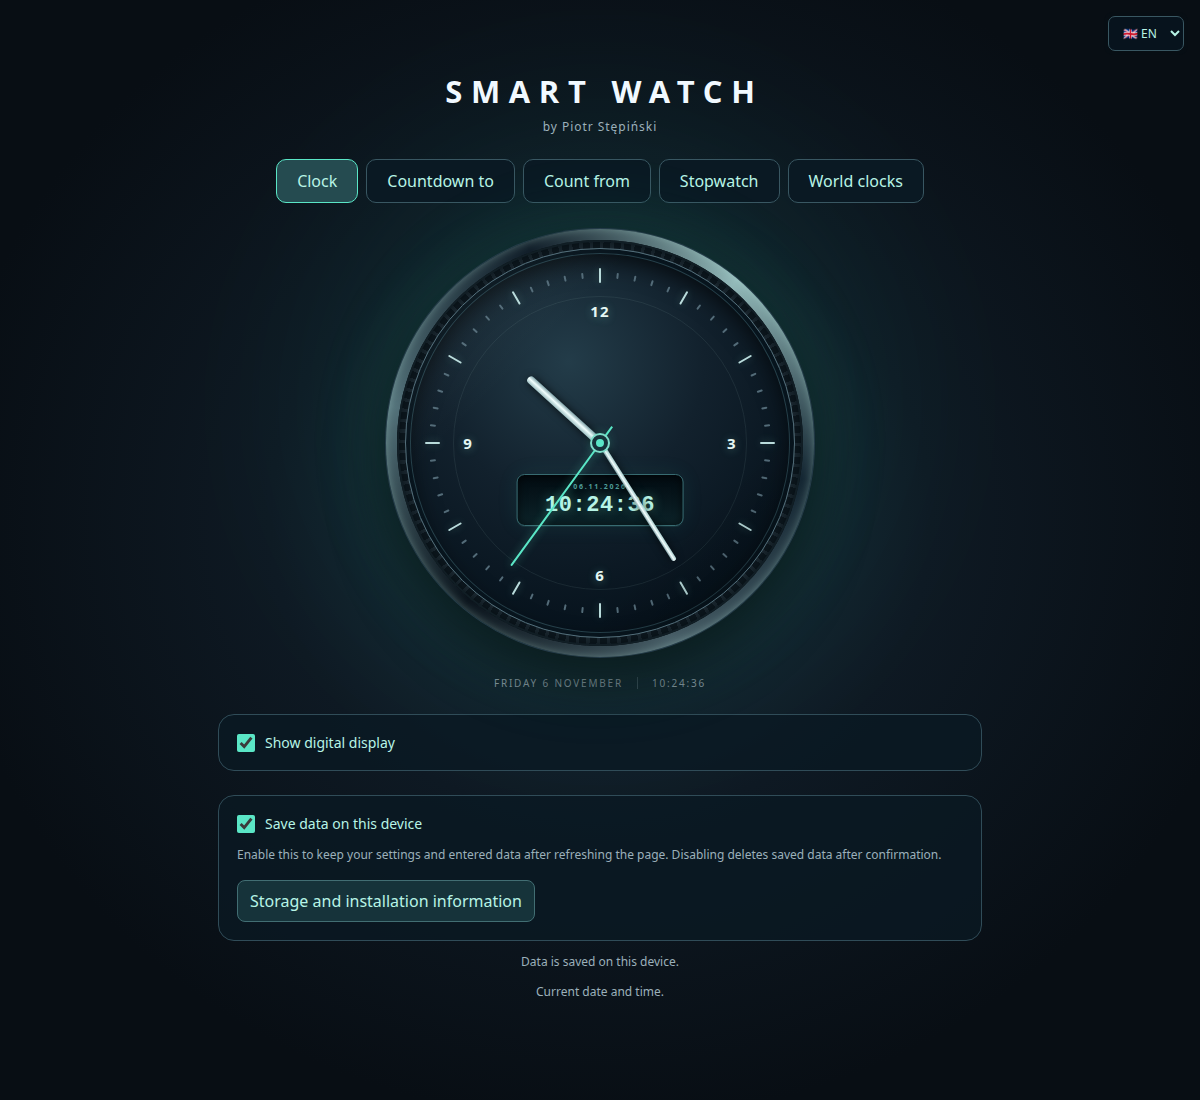
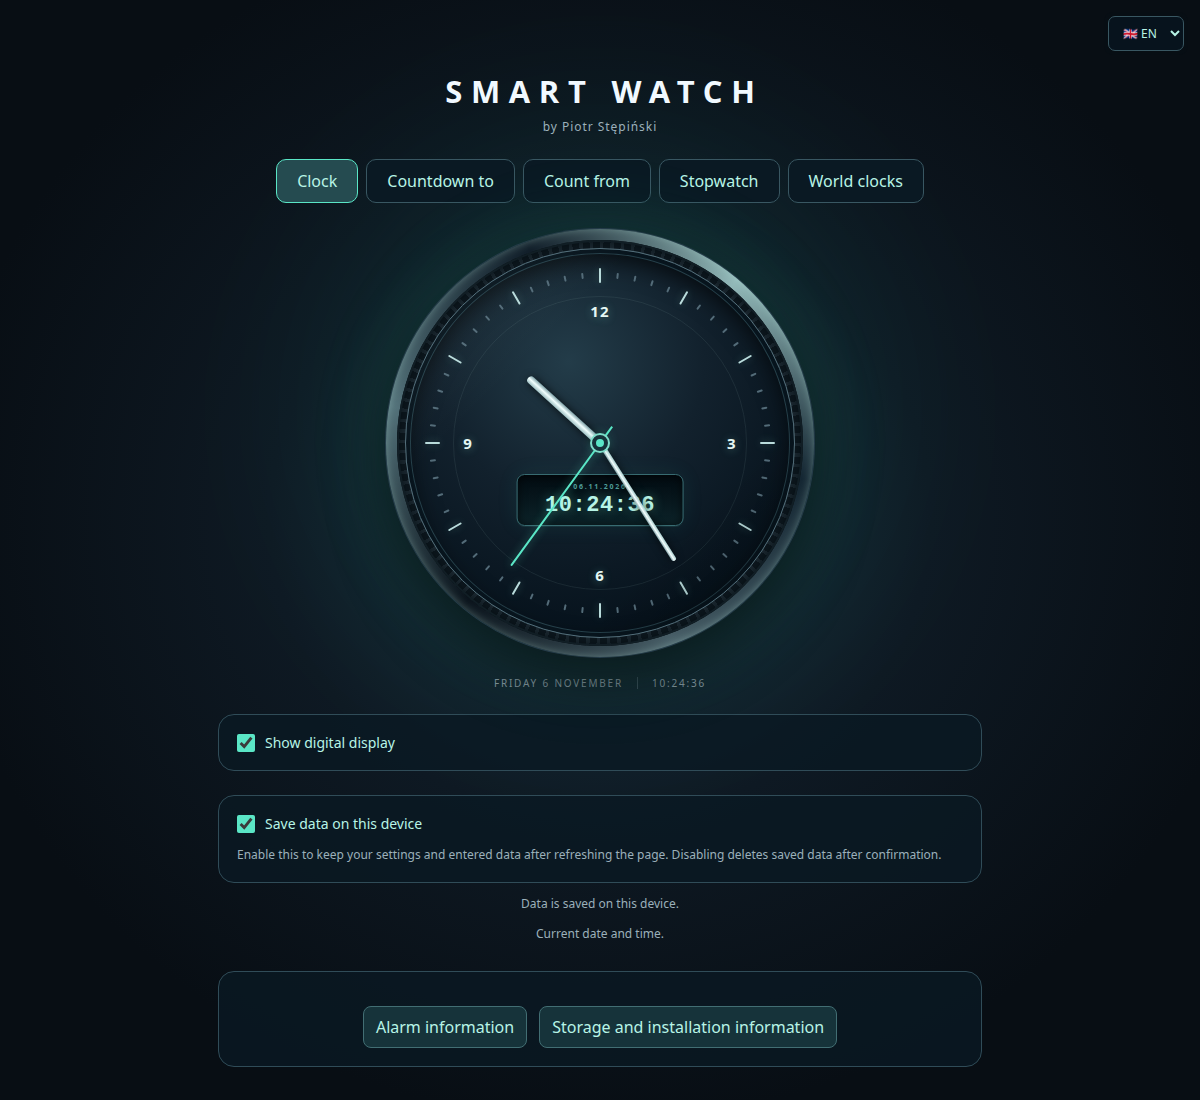
Show alarm information once and move information buttons to footer

Changed region(s): [[0.185, 0.7727, 0.7092, 0.9582]]

diff --git a/src/app/app.component.html b/src/app/app.component.html
@@ -41,6 +41,12 @@
       } @else { <button type="button" (click)="closeStorageInfo()">{{ t('Zamknij') }}</button> }
       </div>
   </dialog>
+  <dialog #alarmInfoDialog class="storage-banner storage-popup" aria-labelledby="alarmInfoTitle" (cancel)="$event.preventDefault()">
+    <div class="storage-popup-header"><h2 id="alarmInfoTitle">{{ t('Informacje o alarmie') }}</h2></div>
+        <strong>{{ t('Alarm działa tylko przy otwartej, aktywnej aplikacji i włączonym ekranie.') }}</strong>
+        <p>{{ t('Nie działa po zablokowaniu telefonu, wygaszeniu ekranu, zamknięciu aplikacji ani w tle. Sprawdź głośność i tryb wyciszenia telefonu. Po odświeżeniu strony ponownie włącz dźwięk przyciskiem „Włącz i przetestuj dźwięk alarmów” w zakładce „Odliczanie do”. Alarm jest jednorazowy; po zmianie terminu włącz go ponownie.') }}</p>
+    <div class="storage-banner-actions"><button type="button" (click)="acknowledgeAlarmInfo()" autofocus>{{ t('Rozumiem') }}</button></div>
+  </dialog>
   @if (alarms.notices().length) {
     <aside class="alarm-notices range-form" role="alert">
       @for (notice of alarms.notices(); track notice.id) {
@@ -117,7 +123,6 @@
   <div class="range-form storage-setting">
     <label class="display-toggle"><input type="checkbox" [checked]="storage.enabled()" [disabled]="storage.busy()" (change)="toggleStorage($event)">{{ t('Zapisuj dane na tym urządzeniu') }}</label>
     <p class="range-help">{{ t('Włącz, aby zachować swoje ustawienia i wprowadzone dane po odświeżeniu strony. Wyłączenie usunie zapis po potwierdzeniu.') }}</p>
-    <button type="button" class="storage-info-button" (click)="openStorageInfo()">{{ t('Informacje o zapisie i instalacji') }}</button>
   </div>
   @if (storageNotice()) { <p class="storage-status" role="status">{{ t(storageNotice()) }}</p> }
   <p class="storage-status" [class.error]="storage.error()" role="status">{{ t(storage.error() || (storage.enabled() ? 'Dane są zapisywane na tym urządzeniu.' : 'Zapis jest wyłączony. Po odświeżeniu strony Twoje ustawienia i wprowadzone dane znikną.')) }}</p>
@@ -130,9 +135,7 @@
   <section id="clockPanel" role="tabpanel" aria-labelledby="clockTab" [hidden]="state.mode !== 'clock'"><p class="range-help">{{ t('Aktualna data i godzina.') }}</p></section>
   <section id="countdownPanel" role="tabpanel" aria-labelledby="countdownTab" [hidden]="state.mode !== 'countdown'">
     <div class="range-form">
-      <div class="alarm-help">
-        <strong>{{ t('Alarm działa tylko przy otwartej, aktywnej aplikacji i włączonym ekranie.') }}</strong>
-        <p>{{ t('Nie działa po zablokowaniu telefonu, wygaszeniu ekranu, zamknięciu aplikacji ani w tle. Sprawdź głośność i tryb wyciszenia telefonu. Po odświeżeniu strony ponownie włącz dźwięk przyciskiem poniżej. Alarm jest jednorazowy; po zmianie terminu włącz go ponownie.') }}</p>
+      <div class="alarm-audio-controls">
         <button type="button" (click)="alarms.testSound()" [disabled]="alarms.preparing()">{{ t('Włącz i przetestuj dźwięk alarmów') }}</button>
         <span class="alarm-audio-status">{{ t(alarms.ready() ? 'Dźwięk jest włączony w tej sesji.' : 'Dźwięk wymaga włączenia w tej sesji.') }}</span>
         @if (alarms.error()) { <p class="range-status error" role="alert">{{ t(alarms.error()) }}</p> }
@@ -213,4 +216,8 @@
   <section id="worldPanel" role="tabpanel" aria-labelledby="worldTab" [hidden]="state.mode !== 'world'">
     @if (state.mode === 'world') { <app-world-clocks /> }
   </section>
+  <footer class="page-information range-form">
+    <button type="button" (click)="openAlarmInfo()">{{ t('Informacje o alarmie') }}</button>
+    <button type="button" class="storage-info-button" (click)="openStorageInfo()">{{ t('Informacje o zapisie i instalacji') }}</button>
+  </footer>
 </main>

diff --git a/tests/e2e/alarm-info.spec.ts b/tests/e2e/alarm-info.spec.ts
@@ -1,0 +1,41 @@
+import { test, expect } from '@playwright/test';
+import type { Page } from '@playwright/test';
+
+const popup = (page: Page) => page.getByRole('dialog', { name: 'Informacje o alarmie', exact: true });
+const countdown = (page: Page) => page.getByRole('tab', { name: 'Odliczanie do', exact: true }).click();
+const acknowledge = (page: Page) => popup(page).getByRole('button', { name: 'Rozumiem', exact: true }).click();
+
+test('potwierdzenie jest zapamiętane za zgodą, oba przyciski informacji są na dole i pozwalają otworzyć popupy', async ({ page }) => {
+  await page.goto('/');
+  await page.getByRole('button', { name: 'Zgadzam się na zapis', exact: true }).click();
+  await countdown(page);
+  await expect(popup(page)).toContainText('Nie działa po zablokowaniu telefonu');
+  await page.keyboard.press('Escape');
+  await expect(popup(page)).toBeVisible();
+  await acknowledge(page);
+  await page.reload();
+  await expect(page.getByRole('tab', { name: 'Odliczanie do', exact: true })).toHaveAttribute('aria-selected', 'true');
+  await expect(popup(page)).not.toBeVisible();
+  const footer = page.locator('footer.page-information');
+  await footer.getByRole('button', { name: 'Informacje o alarmie', exact: true }).click();
+  await expect(popup(page)).toBeVisible();
+  await acknowledge(page);
+  await footer.getByRole('button', { name: 'Informacje o zapisie i instalacji', exact: true }).click();
+  await expect(page.getByRole('dialog', { name: 'Zapis danych na urządzeniu', exact: true })).toBeVisible();
+  expect(await page.locator('main').evaluate(main => main.lastElementChild?.tagName)).toBe('FOOTER');
+});
+
+test('bez zapisu potwierdzenie działa w sesji, ale znika po odświeżeniu', async ({ page }) => {
+  await page.goto('/');
+  await page.getByRole('button', { name: 'Kontynuuj bez zapisu', exact: true }).click();
+  await countdown(page);
+  await acknowledge(page);
+  await page.getByRole('tab', { name: 'Zegarek', exact: true }).click();
+  await countdown(page);
+  await expect(popup(page)).not.toBeVisible();
+  expect(await page.evaluate(() => localStorage.getItem('horizon.state.v1'))).toBeNull();
+  await page.reload();
+  await page.getByRole('button', { name: 'Kontynuuj bez zapisu', exact: true }).click();
+  await countdown(page);
+  await expect(popup(page)).toBeVisible();
+});

diff --git a/src/app/app.component.ts b/src/app/app.component.ts
@@ -40,6 +40,7 @@ export class AppComponent implements OnDestroy {
   readonly updateReady = signal(false);
   readonly storageNotice = signal('');
   readonly storageDialog = viewChild.required<ElementRef<HTMLDialogElement>>('storageDialog');
+  readonly alarmInfoDialog = viewChild.required<ElementRef<HTMLDialogElement>>('alarmInfoDialog');
   private readonly saveOnLeave = () => this.storage.save();
   private readonly visibilityChanged = () => { if (document.hidden) { this.alarms.stopSound(); this.storage.save(); } else this.now.set(Date.now()); };
   private readonly beforeInstall = (event: Event) => { event.preventDefault(); this.installPrompt.set(event as InstallEvent); };
@@ -124,6 +125,13 @@ export class AppComponent implements OnDestroy {
         if (!dialog.open) dialog.showModal();
       } else if (dialog.open) dialog.close();
     });
+    afterRenderEffect(() => {
+      this.revision();
+      if (this.state.mode === 'countdown' && !this.state.alarmInfoAcknowledged && !this.storage.showBanner()) {
+        const dialog = this.alarmInfoDialog().nativeElement;
+        if (!dialog.open && !this.storageDialog().nativeElement.open) dialog.showModal();
+      }
+    });
     window.addEventListener('pagehide', this.saveOnLeave);
     document.addEventListener('visibilitychange', this.visibilityChanged);
     window.addEventListener('beforeinstallprompt', this.beforeInstall);
@@ -141,6 +149,15 @@ export class AppComponent implements OnDestroy {
     this.storage.save();
     this.revision.update(value => value + 1);
     this.now.set(Date.now());
+  }
+  openAlarmInfo(): void {
+    const dialog = this.alarmInfoDialog().nativeElement;
+    if (!dialog.open) dialog.showModal();
+  }
+  acknowledgeAlarmInfo(): void {
+    this.state.alarmInfoAcknowledged = true;
+    this.alarmInfoDialog().nativeElement.close();
+    this.changed();
   }
   openStorageInfo(): void {
     const dialog = this.storageDialog().nativeElement;

diff --git a/src/app/translations.ts b/src/app/translations.ts
@@ -3,8 +3,10 @@ export type Language = 'pl' | 'en';
 const english: Record<string, string> = {
   "Alarm": "Alarm",
   "Alarm: ": "Alarm: ",
+  "Informacje o alarmie": "Alarm information",
+  "Rozumiem": "I understand",
   "Alarm działa tylko przy otwartej, aktywnej aplikacji i włączonym ekranie.": "The alarm only works while the app is open and active, with the screen on.",
-  "Nie działa po zablokowaniu telefonu, wygaszeniu ekranu, zamknięciu aplikacji ani w tle. Sprawdź głośność i tryb wyciszenia telefonu. Po odświeżeniu strony ponownie włącz dźwięk przyciskiem poniżej. Alarm jest jednorazowy; po zmianie terminu włącz go ponownie.": "It does not work when your phone is locked, the screen is off, the app is closed or running in the background. Check your phone's volume and silent mode. After refreshing, enable sound again using the button below. Alarms are one-time; re-enable after changing the end time.",
+  "Nie działa po zablokowaniu telefonu, wygaszeniu ekranu, zamknięciu aplikacji ani w tle. Sprawdź głośność i tryb wyciszenia telefonu. Po odświeżeniu strony ponownie włącz dźwięk przyciskiem „Włącz i przetestuj dźwięk alarmów” w zakładce „Odliczanie do”. Alarm jest jednorazowy; po zmianie terminu włącz go ponownie.": "It does not work when your phone is locked, the screen is off, the app is closed or running in the background. Check your phone's volume and silent mode. After refreshing, enable sound again using “Enable and test alarm sound” in the “Countdown to” tab. Alarms are one-time; re-enable after changing the end time.",
   "Włącz i przetestuj dźwięk alarmów": "Enable and test alarm sound",
   "Dźwięk jest włączony w tej sesji.": "Sound is enabled for this session.",
   "Dźwięk wymaga włączenia w tej sesji.": "Sound must be enabled for this session.",

diff --git a/tests/e2e/alarms.spec.ts b/tests/e2e/alarms.spec.ts
@@ -13,6 +13,8 @@ test.beforeEach(async ({ page }) => {
   await page.clock.setFixedTime(new Date('2026-01-01T11:59:58+01:00'));
   await page.goto('/');
   await page.getByRole('tab', { name: 'Odliczanie do', exact: true }).click();
+  await expect(page.getByText('Alarm działa tylko przy otwartej, aktywnej aplikacji i włączonym ekranie.', { exact: true })).toBeVisible();
+  await page.getByRole('button', { name: 'Rozumiem', exact: true }).click();
   await page.getByLabel('Godzina końca: Pasek 1', { exact: true }).fill('12:00');
 });
 const alarm = (page: Page) => page.getByRole('checkbox', { name: 'Alarm: Pasek 1', exact: true });
@@ -23,7 +25,7 @@ async function beforeDeadline(page: Page) {
 }
 
 test('alarm jednorazowy gra przy aktywnej aplikacji i pokazuje jasną informację o ograniczeniach', async ({ page }) => {
-  await expect(page.getByText('Alarm działa tylko przy otwartej, aktywnej aplikacji i włączonym ekranie.', { exact: true })).toBeVisible();
+  await expect(page.getByRole('dialog', { name: 'Informacje o alarmie', exact: true })).not.toBeVisible();
   await alarm(page).check();
   await expect(page.getByText('Dźwięk jest włączony w tej sesji.', { exact: true })).toBeVisible();
   await beforeDeadline(page);
@@ -47,7 +49,7 @@ test('zmiana terminu anuluje alarm i nie pozwala ustawić go dla minionego celu'
   await page.getByLabel('Godzina końca: Pasek 1', { exact: true }).fill('10:00');
   await alarm(page).click();
   await expect(alarm(page)).not.toBeChecked();
-  await expect(page.locator('.alarm-help')).toContainText('prawidłowy termin końca w przyszłości');
+  await expect(page.locator('.alarm-audio-controls')).toContainText('prawidłowy termin końca w przyszłości');
 });
 
 test('w tle nie odtwarza dźwięku i po powrocie informuje o miniętym terminie', async ({ page }) => {

diff --git a/tests/e2e/privacy.spec.ts b/tests/e2e/privacy.spec.ts
@@ -8,6 +8,13 @@ const checkbox = (page: Page) => page.getByRole('checkbox', { name: 'Zapisuj dan
 const banner = (page: Page) => page.getByRole('dialog', { name: 'Zapis danych na urządzeniu', exact: true });
 const read = (page: Page) => page.evaluate(({ stateKey, consentKey }) => ({ state: localStorage.getItem(stateKey), consent: localStorage.getItem(consentKey) }), { stateKey, consentKey });
 
+// Feature tests acknowledge the alarm introduction; its lifecycle is tested separately.
+test.beforeEach(async ({ page }) => {
+  await page.addLocatorHandler(page.getByRole('dialog', { name: 'Informacje o alarmie', exact: true }), async () => {
+    await page.getByRole('button', { name: 'Rozumiem', exact: true }).click();
+  });
+});
+
 test('bez zgody nie zapisuje stanu, języka ani nie rejestruje PWA, odmowa działa w sesji', async ({ page }) => {
   await page.goto('/');
   await expect(banner(page)).toBeVisible();
@@ -150,7 +157,7 @@ test('nieudany zapis danych cofa flagę zgody i zachowuje poprzedni zapis', asyn
 test('popup można odczytać ponownie bez zmiany zgody, zawiera instrukcje Android i iOS', async ({ page }) => {
   await page.goto('/');
   await expect(banner(page)).toBeVisible();
-  await expect(page.locator('dialog')).toHaveJSProperty('open', true);
+  await expect(banner(page)).toHaveJSProperty('open', true);
   await banner(page).getByText('Jak zapisać aplikację na telefonie?', { exact: true }).click();
   await expect(banner(page).getByRole('heading', { name: 'Android · Chrome', exact: true })).toBeVisible();
   await expect(banner(page).getByRole('heading', { name: 'iPhone / iPad · Safari', exact: true })).toBeVisible();

diff --git a/tests/e2e/app.spec.ts b/tests/e2e/app.spec.ts
@@ -2,6 +2,13 @@ import { test, expect, chromium } from '@playwright/test';
 import type { Page } from '@playwright/test';
 
 // These feature tests exercise the explicit opt-in state; first-visit behaviour is covered in privacy.spec.ts.
+// Feature tests acknowledge the alarm introduction; its lifecycle is tested separately.
+test.beforeEach(async ({ page }) => {
+  await page.addLocatorHandler(page.getByRole('dialog', { name: 'Informacje o alarmie', exact: true }), async () => {
+    await page.getByRole('button', { name: 'Rozumiem', exact: true }).click();
+  });
+});
+
 test.beforeEach(async ({ page }) => {
   await page.addInitScript(() => {
     if (!sessionStorage.getItem('horizon.testConsentSeeded')) {
@@ -377,6 +384,8 @@ test.describe('karuzela odliczania na telefonie', () => {
   test('przesuwa zegarek gestem do tabeli i pozwala wrócić przyciskiem', async ({ page, context }) => {
     await page.goto('/');
     await page.getByRole('tab', { name: 'Odliczanie do', exact: true }).click();
+    await page.removeLocatorHandler(page.getByRole('dialog', { name: 'Informacje o alarmie', exact: true }));
+    await page.getByRole('button', { name: 'Rozumiem', exact: true }).click();
     const carousel = page.locator('.countdown-overview');
     const bounds = (await carousel.boundingBox())!;
     const y = Math.min(bounds.y + 150, 700);

diff --git a/src/app/persistence.ts b/src/app/persistence.ts
@@ -18,6 +18,7 @@ export function isAppState(value: unknown): value is AppState {
   if (value['language'] !== 'pl' && value['language'] !== 'en') return false;
   if (!['clock', 'countdown', 'stopwatch', 'timer', 'world'].includes(String(value['mode'])) || typeof value['showDigital'] !== 'boolean') return false;
   if (!['all', 'single'].includes(String(value['countdownMode'])) || !selection(value['countdownUnits'])) return false;
+  if (value['alarmInfoAcknowledged'] !== undefined && typeof value['alarmInfoAcknowledged'] !== 'boolean') return false;
   const world = value['worldClocks'];
   if (!Array.isArray(world) || !world.every(item => record(item) && natural(item['id']) && strings(item, ['name', 'timeZone']) &&
     typeof item['visible'] === 'boolean' && validTimeZone(item['timeZone'] as string)) || !uniqueIds(world)) return false;

diff --git a/src/styles.css b/src/styles.css
@@ -194,8 +194,7 @@ app-root, .stage, .range-form { min-width: 0; }
   .storage-popup-header { gap: 8px; }
   .storage-popup-header h2 { font-size: 16px; }
 }
-.alarm-help { padding: 14px; margin-bottom: 18px; border: 1px solid #927344; border-radius: 10px; color: #f4dfb2; font-size: 13px; line-height: 1.6; }
-.alarm-help p { margin: 8px 0; }
-.alarm-help .range-status { margin-top: 10px; }
+.alarm-audio-controls { margin-bottom: 18px; }
+.page-information { display: flex; flex-wrap: wrap; justify-content: center; gap: 12px; margin-top: 28px; }
 .alarm-audio-status { display: block; margin-top: 8px; color: #9bb0ba; font-size: 12px; }
 .alarm-notices { border-color: #f4df77; }

diff --git a/scripts/screenshots.ts b/scripts/screenshots.ts
@@ -12,6 +12,7 @@ const directory = fileURLToPath(new URL('../docs/screenshots/', import.meta.url)
 await mkdir(directory, { recursive: true });
 const demoTime = new Date('2026-11-06T10:24:36+01:00');
 const demo = createState(demoTime, 'en');
+demo.alarmInfoAcknowledged = true;
 demo.processes = [
   { id: 1, name: 'Working day', color: '#5ae6c6', visible: true, startDate: '', startTime: '08:00', endDate: '', endTime: '16:00' },
   { id: 2, name: 'Design review', color: '#65baff', visible: true, startDate: '', startTime: '10:00', endDate: '', endTime: '12:30' },

diff --git a/src/app/models.ts b/src/app/models.ts
@@ -45,6 +45,7 @@ export interface AppState {
   language: 'pl' | 'en';
   mode: Mode;
   showDigital: boolean;
+  alarmInfoAcknowledged?: boolean;
   countdownMode: 'all' | 'single';
   countdownUnits: UnitSelection;
   processes: Process[];

diff --git a/README.md b/README.md
@@ -162,7 +162,7 @@ Widoczność sekund, minut, godzin, dni, tygodni, miesięcy i lat ustala się pr
 
 Każdy proces ma opcję **Alarm**. Włączenie ustawia jednorazowy alarm na wyliczoną datę i godzinę końca, również gdy wpisano tylko godzinę celu. Cel musi być prawidłowy i przyszły. Ukrycie procesu na tarczy nie wyłącza jego alarmu.
 
-**Alarm działa tylko przy otwartej, aktywnej aplikacji i włączonym ekranie. Nie działa po zablokowaniu telefonu, wygaszeniu ekranu, zamknięciu aplikacji ani w tle — także w zainstalowanej PWA.** Ta informacja jest widoczna obok ustawień alarmu w PL i EN. Nie jest to natywny budzik ani powiadomienie push.
+**Alarm działa tylko przy otwartej, aktywnej aplikacji i włączonym ekranie. Nie działa po zablokowaniu telefonu, wygaszeniu ekranu, zamknięciu aplikacji ani w tle — także w zainstalowanej PWA.** Ta informacja pojawia się w popupie przy pierwszym otwarciu zakładki „Odliczanie do”, w PL i EN. Przycisk „Rozumiem” zamyka popup; przy włączonym zapisie danych wybór jest pamiętany również po odświeżeniu. Bez zapisu jest pamiętany tylko do odświeżenia lub zamknięcia strony. Przycisk „Informacje o alarmie” na dole strony pozwala ponownie przeczytać komunikat. Obok znajduje się przycisk informacji o zapisie danych i instalacji. Nie jest to natywny budzik ani powiadomienie push.
 
 - Włączenie alarmu aktywuje dźwięk w bieżącej sesji. Przycisk **Enable and test alarm sound** pozwala sprawdzić, czy dźwięk jest słyszalny; trzeba uwzględnić głośność i wyciszenie telefonu.
 - Po odświeżeniu lub ponownym otwarciu strony ponownie użyj przycisku aktywacji dźwięku. Przeglądarka wymaga interakcji użytkownika; zapamiętany termin sam nie odblokowuje audio.
